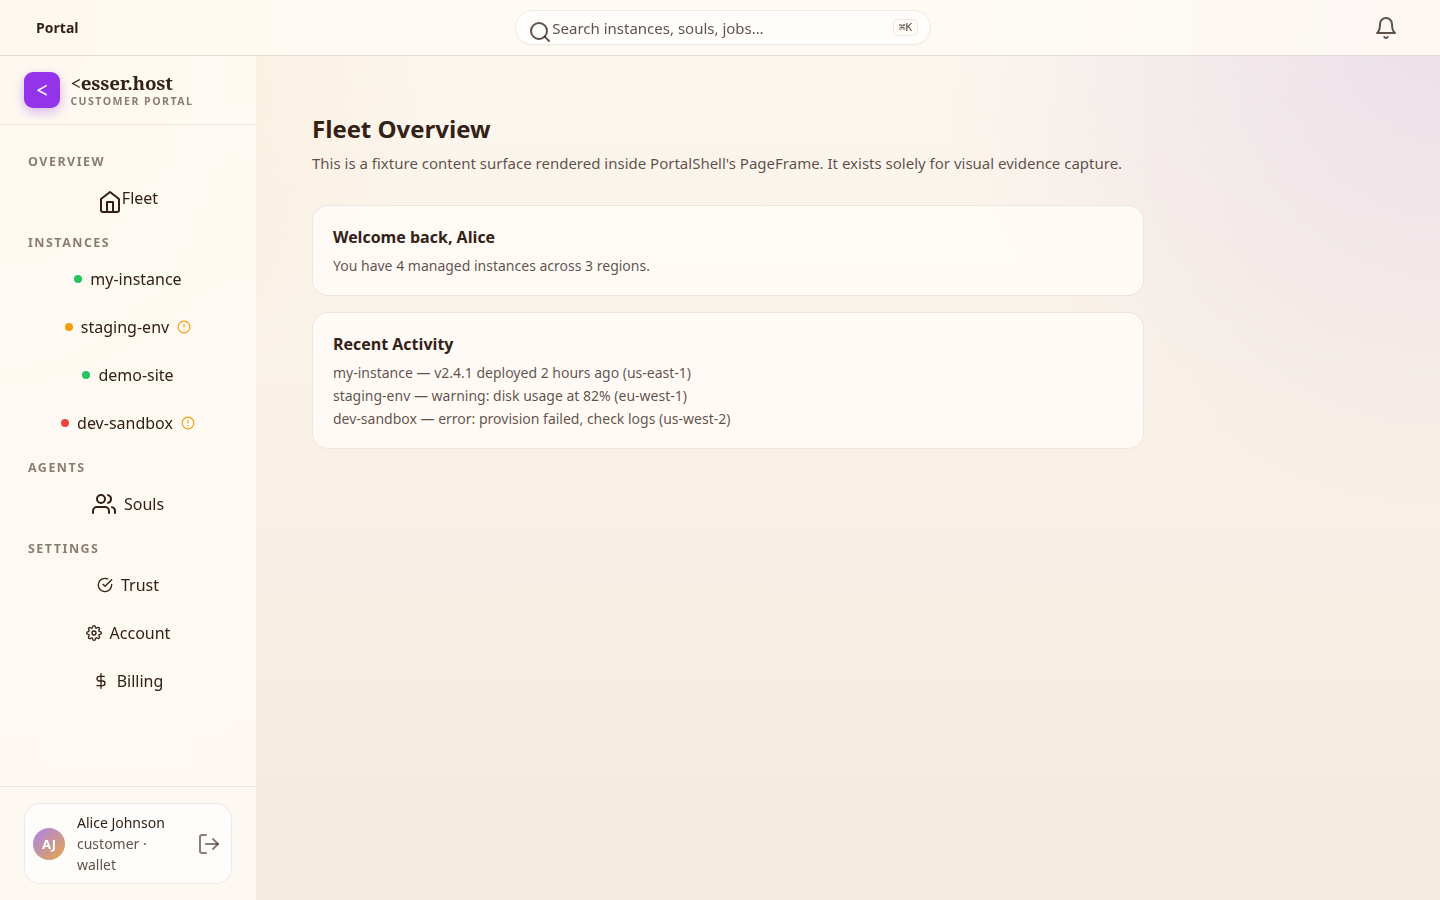
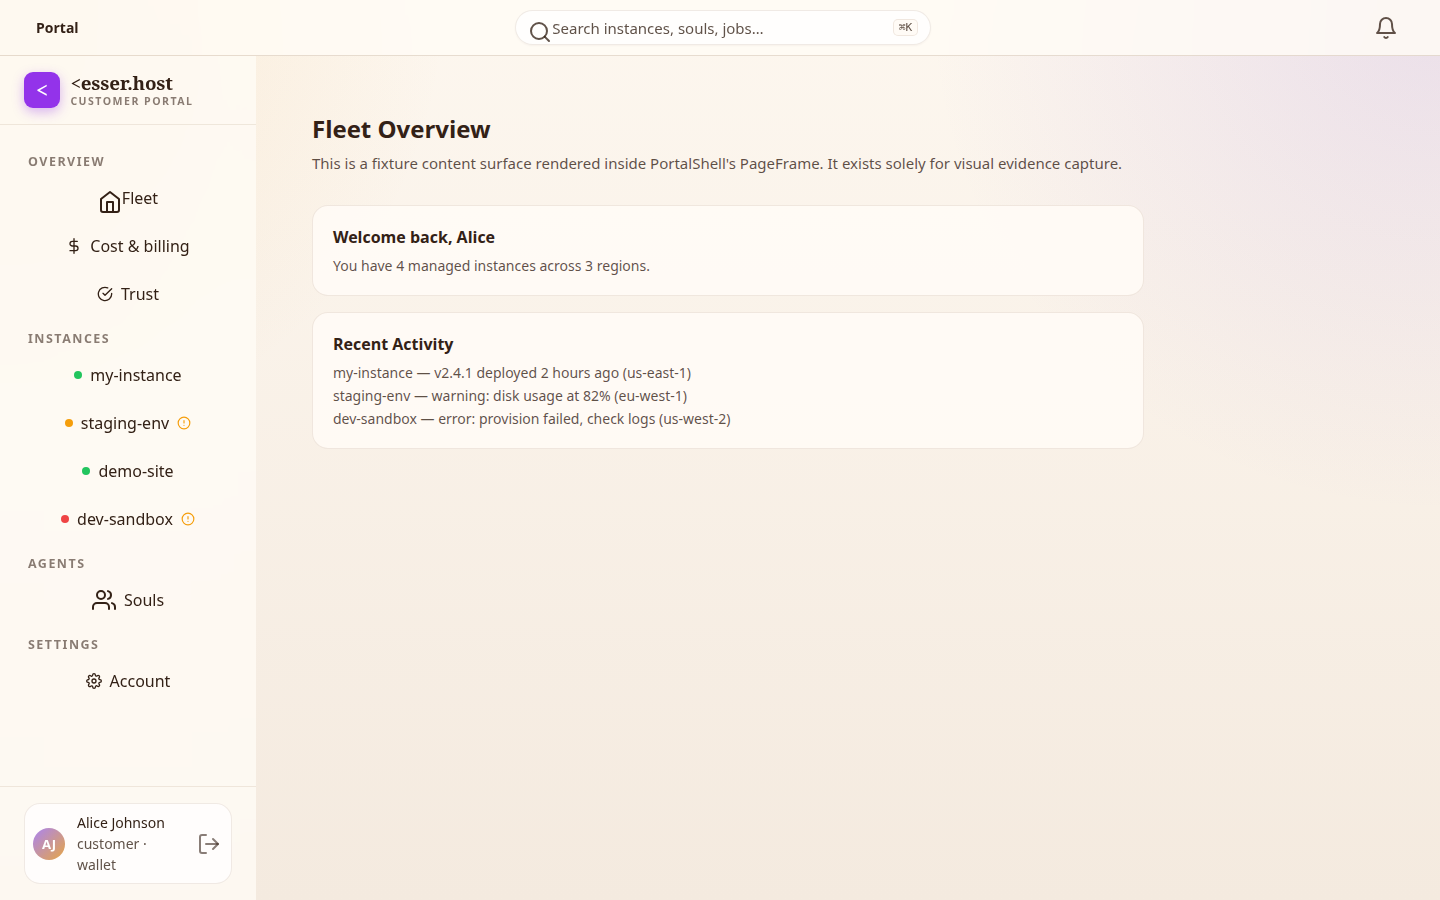
fix(web): align M2 shell sidebar fidelity gaps
- Map provisioning instance status to accent (gold), not warning (amber).
  Provisioning is a transient operational state, not a warning condition.
- Reorder sidebar IA: move Cost & billing and Trust to Overview section;
  Settings now contains only Account. Label reads "Cost & billing", not
  bare "Billing", matching the design fixture.
- Move Operator console button above user chip in sidebar footer when
  visible. Preserve admin/operator-only visibility and /operator nav.
- Add 3 regression tests: provisioning→accent status dot, sidebar IA
  order assertion (Fleet→Cost & billing→Trust→Instances→…→Settings→
  Account, no bare "Billing" label), and footer ordering for admin
  sessions (operator button precedes user chip).
- Update sidebar.md and full-shell.md evidence to match new IA, footer
  order, and status mapping. Add deliberate deviation note: Souls
  numeric badge deferred to M13/M14 (no real count to surface in M2).
- Regenerate full-shell.png (1440×900), sidebar.png (420×900), and
  topbar.png (1440×96); preserve fixture CSS imports.

Closes #536

diff --git a/web/src/lib/components/PortalShell.svelte b/web/src/lib/components/PortalShell.svelte
@@ -229,9 +229,9 @@ Issue: equaltoai/lesser-host#536
 	function instanceStatusColor(status: string): string {
 		const s = (status ?? '').toLowerCase();
 		if (s === 'ok' || s === 'active' || s === 'running' || s === 'provisioned') return 'ok';
-		if (s === 'warning' || s === 'provisioning') return 'warning';
+		if (s === 'warning') return 'warning';
 		if (s === 'error' || s === 'failed') return 'error';
-		if (s === 'pending' || s === 'in_progress' || s === 'creating') return 'accent';
+		if (s === 'pending' || s === 'in_progress' || s === 'creating' || s === 'provisioning') return 'accent';
 		return 'ok';
 	}
 
@@ -537,6 +537,22 @@ Issue: equaltoai/lesser-host#536
 					<span class="portal-shell__nav-icon"><HomeIcon /></span>
 					Fleet
 				</Link>
+				<Link
+					{...linkProps('/portal/billing')}
+					variant="ghost"
+					aria-current={isActive('/portal/billing') ? 'page' : undefined}
+				>
+					<DollarSignIcon class="portal-shell__nav-icon" />
+					Cost &amp; billing
+				</Link>
+				<Link
+					{...linkProps('/portal/trust')}
+					variant="ghost"
+					aria-current={isActive('/portal/trust') || isActive('/trust') ? 'page' : undefined}
+				>
+					<CheckCircleIcon class="portal-shell__nav-icon" />
+					Trust
+				</Link>
 
 				<!-- ── Instances section ──────────────────────────── -->
 				<div class="portal-shell__nav-section">
@@ -591,14 +607,6 @@ Issue: equaltoai/lesser-host#536
 					<Eyebrow>Settings</Eyebrow>
 				</div>
 				<Link
-					{...linkProps('/portal/trust')}
-					variant="ghost"
-					aria-current={isActive('/portal/trust') || isActive('/trust') ? 'page' : undefined}
-				>
-					<CheckCircleIcon class="portal-shell__nav-icon" />
-					Trust
-				</Link>
-				<Link
 					{...linkProps('/portal/account')}
 					variant="ghost"
 					aria-current={isActive('/portal/account', true) || isActive('/account', true) ? 'page' : undefined}
@@ -606,19 +614,21 @@ Issue: equaltoai/lesser-host#536
 					<SettingsIcon class="portal-shell__nav-icon" />
 					Account
 				</Link>
-				<Link
-					{...linkProps('/portal/billing')}
-					variant="ghost"
-					aria-current={isActive('/portal/billing') ? 'page' : undefined}
-				>
-					<DollarSignIcon class="portal-shell__nav-icon" />
-					Billing
-				</Link>
 			</div>
 
 			{#snippet footer()}
 				<div class="portal-shell__sidebar-footer">
 					{#if $session}
+						{#if $session.role === 'admin' || $session.role === 'operator'}
+							<Button
+								variant="outline"
+								onclick={() => navigate('/operator')}
+								class="portal-shell__operator-btn"
+							>
+								<ShieldIcon class="portal-shell__operator-icon" />
+								Operator console
+							</Button>
+						{/if}
 						<div class="portal-shell__user-chip">
 							<span class="portal-shell__avatar" aria-hidden="true">
 								{avatarInitials}
@@ -636,16 +646,6 @@ Issue: equaltoai/lesser-host#536
 								<LogOutIcon />
 							</button>
 						</div>
-						{#if $session.role === 'admin' || $session.role === 'operator'}
-							<Button
-								variant="outline"
-								onclick={() => navigate('/operator')}
-								class="portal-shell__operator-btn"
-							>
-								<ShieldIcon class="portal-shell__operator-icon" />
-								Operator console
-							</Button>
-						{/if}
 					{:else}
 						<Link {...linkProps('/login')} variant="default">Sign in</Link>
 					{/if}

diff --git a/web/src/lib/components/PortalShell.svelte.test.ts b/web/src/lib/components/PortalShell.svelte.test.ts
@@ -509,4 +509,94 @@ describe('PortalShell', () => {
 			expect(target.querySelector('.portal-shell__bell-popover')).toBeNull();
 		});
 	});
+
+	describe('instance status dot mapping', () => {
+		it('maps provisioning status to accent, not warning', async () => {
+			setSession(customerSession());
+
+			mockListInstances.mockResolvedValue({
+				instances: [makeInstance({ slug: 'new-box', status: 'provisioning' })],
+				count: 1,
+			});
+			mockGetPortalMe.mockResolvedValue({
+				username: 'wallet-user',
+				role: 'customer',
+				method: 'wallet',
+			});
+
+			const { target } = mountPortalShell();
+			await flushMountAsync();
+
+			const dot = target.querySelector('.portal-shell__status-dot') as HTMLElement;
+			expect(dot).not.toBeNull();
+			expect(dot.getAttribute('data-status')).toBe('accent');
+		});
+	});
+
+	describe('sidebar nav IA ordering', () => {
+		it('places Fleet, Cost & billing, Trust under Overview and Account alone under Settings', async () => {
+			setSession(customerSession());
+
+			mockListInstances.mockResolvedValue({
+				instances: [makeInstance({ slug: 'alpha', status: 'ok' })],
+				count: 1,
+			});
+			mockGetPortalMe.mockResolvedValue({
+				username: 'wallet-user',
+				role: 'customer',
+				method: 'wallet',
+			});
+
+			const { target } = mountPortalShell();
+			await flushMountAsync();
+
+			const nav = target.querySelector('.portal-shell__nav');
+			expect(nav).not.toBeNull();
+			const allText = nav!.textContent?.replace(/\s+/g, ' ').trim() ?? '';
+
+			const fleetIdx = allText.indexOf('Fleet');
+			const billingIdx = allText.indexOf('Cost & billing');
+			const trustIdx = allText.indexOf('Trust');
+			const instancesEyebrowIdx = allText.indexOf('Instances');
+			const settingsEyebrowIdx = allText.indexOf('Settings');
+			const accountIdx = allText.indexOf('Account');
+
+			expect(fleetIdx).toBeGreaterThan(-1);
+			expect(billingIdx).toBeGreaterThan(fleetIdx);
+			expect(trustIdx).toBeGreaterThan(billingIdx);
+			expect(instancesEyebrowIdx).toBeGreaterThan(trustIdx);
+			expect(settingsEyebrowIdx).toBeGreaterThan(instancesEyebrowIdx);
+			expect(accountIdx).toBeGreaterThan(settingsEyebrowIdx);
+
+			const bareBillingMatch = /(?<!&)\bBilling\b/.test(allText);
+			expect(bareBillingMatch).toBe(false);
+		});
+	});
+
+	describe('sidebar footer ordering', () => {
+		it('renders operator button before user chip for admin sessions', async () => {
+			setSession(operatorSession());
+
+			mockListInstances.mockResolvedValue({ instances: [], count: 0 });
+			mockGetPortalMe.mockResolvedValue({
+				username: 'admin-user',
+				role: 'admin',
+				method: 'wallet',
+			});
+
+			const { target } = mountPortalShell();
+			await flushMountAsync();
+
+			const footer = target.querySelector('.portal-shell__sidebar-footer');
+			expect(footer).not.toBeNull();
+
+			const children = Array.from(footer!.children);
+			const opBtnIdx = children.findIndex((c) => c.classList.contains('portal-shell__operator-btn'));
+			const userChipIdx = children.findIndex((c) => c.classList.contains('portal-shell__user-chip'));
+
+			expect(opBtnIdx).toBeGreaterThan(-1);
+			expect(userChipIdx).toBeGreaterThan(-1);
+			expect(opBtnIdx).toBeLessThan(userChipIdx);
+		});
+	});
 });

diff --git a/gov-infra/evidence/design-fidelity/m2-shell/full-shell.md b/gov-infra/evidence/design-fidelity/m2-shell/full-shell.md
@@ -45,7 +45,10 @@ The shell uses the Greater `Shell` component grid:
 │                │   ┌─────────────────────────────────┐   │
 │ OVERVIEW       │   │ Content surfaces render here     │   │
 │  🏠 Fleet      │   │ (PortalFleet, InstanceDetail,   │   │
-│                │   │  Trust, Account, Billing, etc.)  │   │
+│  💲 Cost &     │   │  Trust, Account, Billing, etc.)  │   │
+│    billing     │   │                                  │   │
+│  ✓  Trust      │   │                                  │   │
+│                │   │                                  │   │
 │ INSTANCES      │   │                                  │   │
 │  ● alpha       │   │                                  │   │
 │  ● beta  ⚠    │   │                                  │   │
@@ -54,15 +57,13 @@ The shell uses the Greater `Shell` component grid:
 │  👥 Souls      │                                         │
 │                │                                         │
 │ SETTINGS       │                                         │
-│  ✓  Trust      │                                         │
 │  ⚙  Account    │                                         │
-│  💲 Billing    │                                         │
 │                │                                         │
 │ ───────────────│                                         │
+│ [🛡 Operator]  │  (admin/operator only)                  │
 │ [Avatar] Alice │                                         │
 │ customer·wallet│                                         │
 │ [🚪 sign out]  │                                         │
-│ [🛡 Operator]  │  (admin/operator only)                  │
 └────────────────┴─────────────────────────────────────────┘
 ```
 
@@ -86,22 +87,22 @@ App.svelte
      │   │   ├─ body: div.portal-shell__nav
      │   │   │   ├─ div.portal-shell__nav-section > Eyebrow("Overview")
      │   │   │   ├─ Link(to="/portal") > span.icon > HomeIcon + "Fleet"
+     │   │   │   ├─ Link(to="/portal/billing") > DollarSignIcon + "Cost & billing"
+     │   │   │   ├─ Link(to="/portal/trust") > CheckCircleIcon + "Trust"
      │   │   │   ├─ div.portal-shell__nav-section > Eyebrow("Instances")
      │   │   │   ├─ [#if loading] skeleton rows [else] instance entries
      │   │   │   ├─ div.portal-shell__nav-section > Eyebrow("Agents")
      │   │   │   ├─ Link(to="/portal/souls") > UsersIcon + "Souls"
      │   │   │   ├─ div.portal-shell__nav-section > Eyebrow("Settings")
-     │   │   │   ├─ Link(to="/portal/trust") > CheckCircleIcon + "Trust"
-     │   │   │   ├─ Link(to="/portal/account") > SettingsIcon + "Account"
-     │   │   │   └─ Link(to="/portal/billing") > DollarSignIcon + "Billing"
+     │   │   │   └─ Link(to="/portal/account") > SettingsIcon + "Account"
      │   │   └─ footer: div.portal-shell__sidebar-footer
-     │   │       ├─ div.portal-shell__user-chip
-     │   │       │   ├─ span.portal-shell__avatar (initials)
-     │   │       │   ├─ span.portal-shell__user-copy
-     │   │       │   │   ├─ Text(displayHandle)
-     │   │       │   │   └─ Text(roleSubtext)
-     │   │       │   └─ button.portal-shell__logout-btn > LogOutIcon
-     │   │       └─ Button (Operator console, conditional)
+     │   │       ├─ Button (Operator console, conditional; above user chip)
+     │   │       └─ div.portal-shell__user-chip
+     │   │           ├─ span.portal-shell__avatar (initials)
+     │   │           ├─ span.portal-shell__user-copy
+     │   │           │   ├─ Text(displayHandle)
+     │   │           │   └─ Text(roleSubtext)
+     │   │           └─ button.portal-shell__logout-btn > LogOutIcon
      │   └─ main: PageFrame(width="wide")
      │       └─ {@render children()}  ← content surfaces
      └─ CommandPalette (legacy, preserved for M2)
@@ -119,6 +120,8 @@ App.svelte
 | Breadcrumb separator | Custom arrow | Greater default (chevron) | Uses existing component |
 | Sidebar width | Design-specific | `md` preset (~256px) | Uses Greater Shell token system |
 | Status dot colors | Design hex values | `--ds-{success,warning,error,accent}-500` tokens | Uses host token system |
+| Souls numeric badge | Badge count next to Souls | Deferred to M13/M14 | No real `requested`/`in_review` count in M2; faking it would be dishonest |
+| Provisioning status | Amber/warning dot | Gold/accent dot | Provisioning is a transient operational state, not a warning |
 
 ## Route Preservation (M0 non-regression)
 
@@ -144,6 +147,6 @@ Legacy paths (`/trust`, `/account`) still route to the same components.
 
 - Web lint: PASS (0 errors)
 - Web typecheck: PASS (0 errors, 0 warnings)
-- Web test: PASS (148 tests across 20 files)
+- Web test: PASS (151 tests across 20 files)
 - Web build: PASS (CSP integrity checks pass)
 - Gov rubric: PASS (40/0/0)

diff --git a/gov-infra/evidence/design-fidelity/m2-shell/sidebar.md b/gov-infra/evidence/design-fidelity/m2-shell/sidebar.md
@@ -36,26 +36,26 @@ The sidebar is rendered by `<Sidebar label="Primary navigation">` with:
 
 Four grouped sections with `<Eyebrow>` labels (M1 primitive, uppercase tracked):
 
-1. **Overview** — Fleet link with HomeIcon
+1. **Overview** — Fleet link (HomeIcon), Cost & billing (DollarSignIcon), Trust (CheckCircleIcon)
 2. **Instances** — Per-instance dynamic entries:
    - Loading state: 3 skeleton rows (pulsing dot + text bar animation)
    - Empty state: "No instances yet" secondary text
    - Loaded: one `<Link>` per instance with status dot, slug label, optional AlertCircleIcon badge
    - Status dots use `data-status` attribute: ok (green), warning (amber), error (red), accent (gold)
-3. **Agents** — Souls link with UsersIcon
-4. **Settings** — Trust (CheckCircleIcon), Account (SettingsIcon), Billing (DollarSignIcon)
+3. **Agents** — Souls link (UsersIcon)
+4. **Settings** — Account (SettingsIcon) only
 
 ### Footer (`.portal-shell__sidebar-footer`)
 
+- **Operator console button** (conditional, above user chip):
+  - Visible only when `session.role` is `admin` or `operator`
+  - ShieldIcon + "Operator console" label
+  - Outlined variant, full width
 - **User chip** (`.portal-shell__user-chip`):
   - Avatar initials (gradient background, white text, 32×32 circle)
   - Display name from `GET /api/v1/portal/me` `display_name` field
   - Role · auth-method subtext
   - LogOutIcon button (28×28, red on hover)
-- **Operator console button** (conditional):
-  - Visible only when `session.role` is `admin` or `operator`
-  - ShieldIcon + "Operator console" label
-  - Outlined variant, full width
 
 ## Design Deviations (Deliberate)
 
@@ -65,25 +65,27 @@ Four grouped sections with `<Eyebrow>` labels (M1 primitive, uppercase tracked):
 4. **Font sizes and spacing** consume host's `--ds-*` and `--gr-*` token system, which may differ by 1–2 px from the design fixture's static values.
 5. **Sidebar width** is `md` (matching the Greater Shell default), approximately 256px. The design fixture may use a slightly different width.
 
+6. **Souls numeric badge**: The design fixture shows a numeric badge ("2") next to Souls. This is deliberately deferred — M2 has no real `requested`/`in_review` count to surface. Faking a count would be dishonest. Future milestones (M13/M14) that wire actual agent-state counts should add the badge at that point.
+
 ## Validation
 
 - Web lint: PASS (0 errors)
 - Web typecheck: PASS (0 errors, 0 warnings)
-- Web test: PASS (148 tests, 20 files)
+- Web test: PASS (151 tests, 20 files)
 - Web build: PASS (CSP integrity checks pass)
-- Gov rubric: PASS (40/0/0)
+- Gov rubric: PASS
 
 ## Per-instance entry behavior
 
 - Async loading: `portalListInstances` is called in `onMount` → `loadSidebarData()`
 - During loading: `instancesLoading === true` → 3 skeleton rows rendered
 - After loading: skeleton removed, instance entries or "No instances yet" shown
-- Status color mapping: `ok/active/running/provisioned` → ok (green), `warning/provisioning` → warning (amber), `error/failed` → error (red), `pending/in_progress/creating` → accent (gold)
+- Status color mapping: `ok/active/running/provisioned` → ok (green), `warning` → warning (amber), `error/failed` → error (red), `pending/in_progress/creating/provisioning` → accent (gold)
 - Alert badge: AlertCircleIcon shown when `status === 'warning' || status === 'error'`
 - Click: navigates to `/portal/instances/{slug}`
 
 ## Component: PortalShell.svelte
 
-Full source: `web/src/lib/components/PortalShell.svelte` (963 lines)
-Tests: `web/src/lib/components/PortalShell.svelte.test.ts` (17 tests)
+Full source: `web/src/lib/components/PortalShell.svelte` (~970 lines)
+Tests: `web/src/lib/components/PortalShell.svelte.test.ts` (20 tests)
 Vitest config: `web/vitest.config.ts` (updated with Greater aliases)
